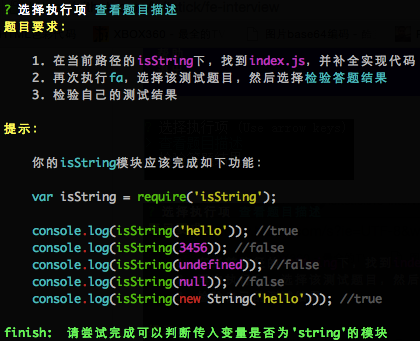
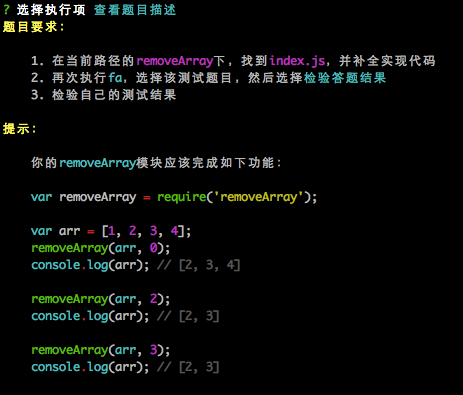
test case can be viewed by user

diff --git a/bin/questions/removeArray/index.js b/bin/questions/removeArray/index.js
@@ -3,7 +3,7 @@
 /**
  *
  *  该模块必须完成以下功能：
- *  
+ *
  *  var removeArray = require('removeArray');
  *
  *  var arr = [1, 2, 3, 4];
@@ -17,8 +17,8 @@
  *  console.log(arr); // [2, 3]
  *
  **/
-var removeArray = function(arr) {
-
+var removeArray = function(arr, index) {
+    //在这里实现
 };
 
 module.exports = removeArray;

diff --git a/bin/index.js b/bin/index.js
@@ -25,7 +25,8 @@ var options = {
     version: 'v' + pkg.version,
     preferenceName: '.fe',
     helpTxt: '帮助',
-    exitTxt: '退出'
+    exitTxt: '退出',
+    onFinish: function() {}
 };
 
 TaskRunner.createMenu(options);
